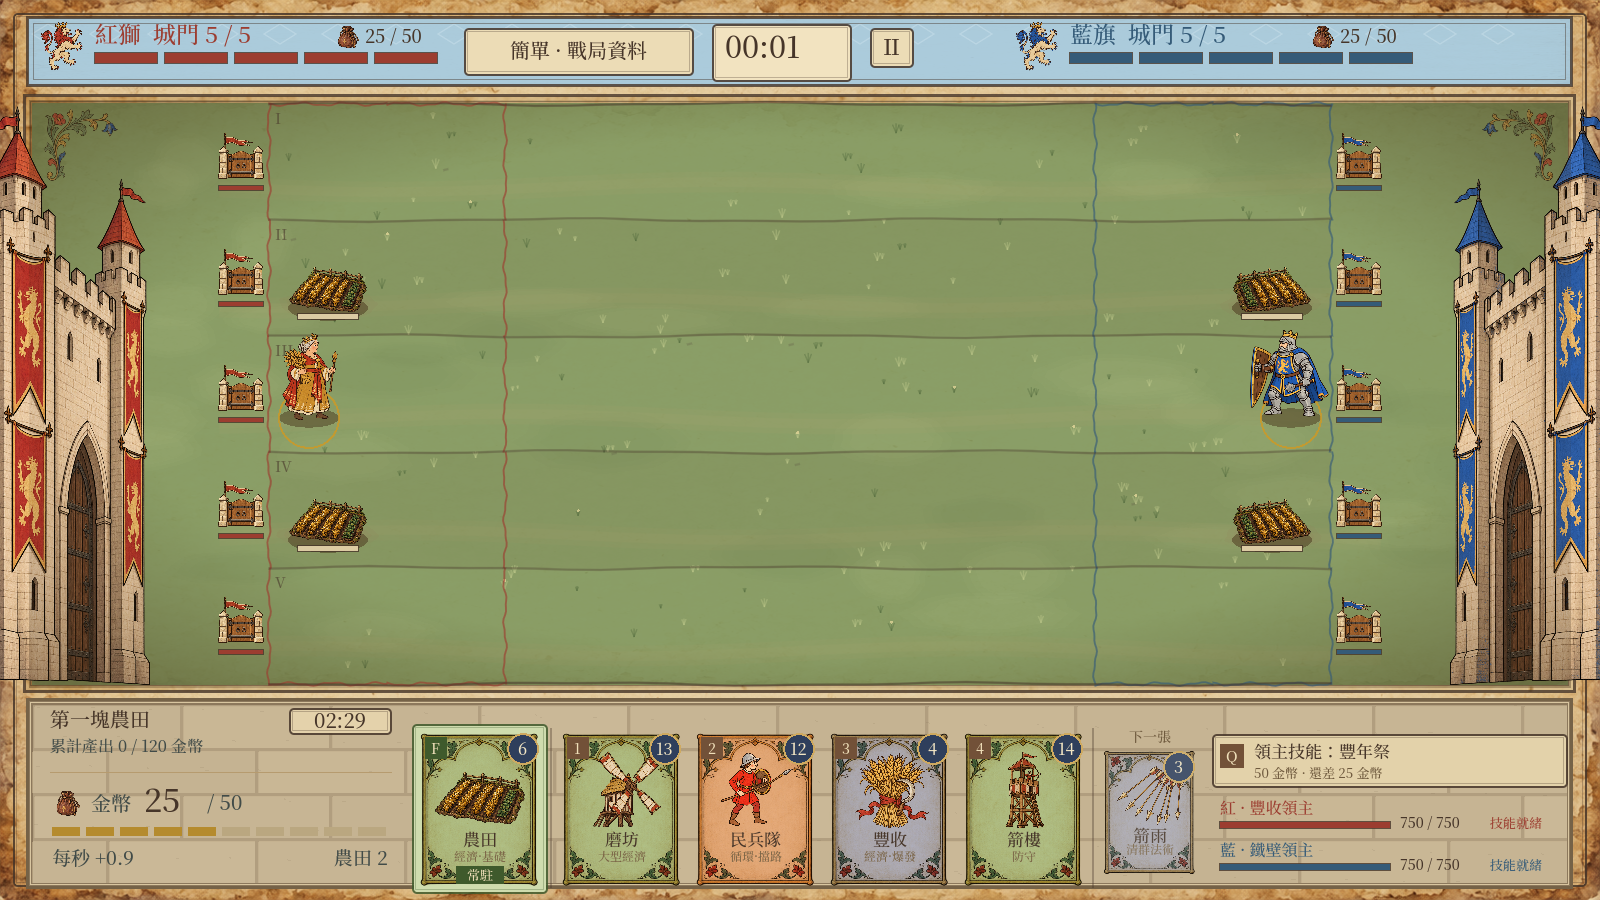
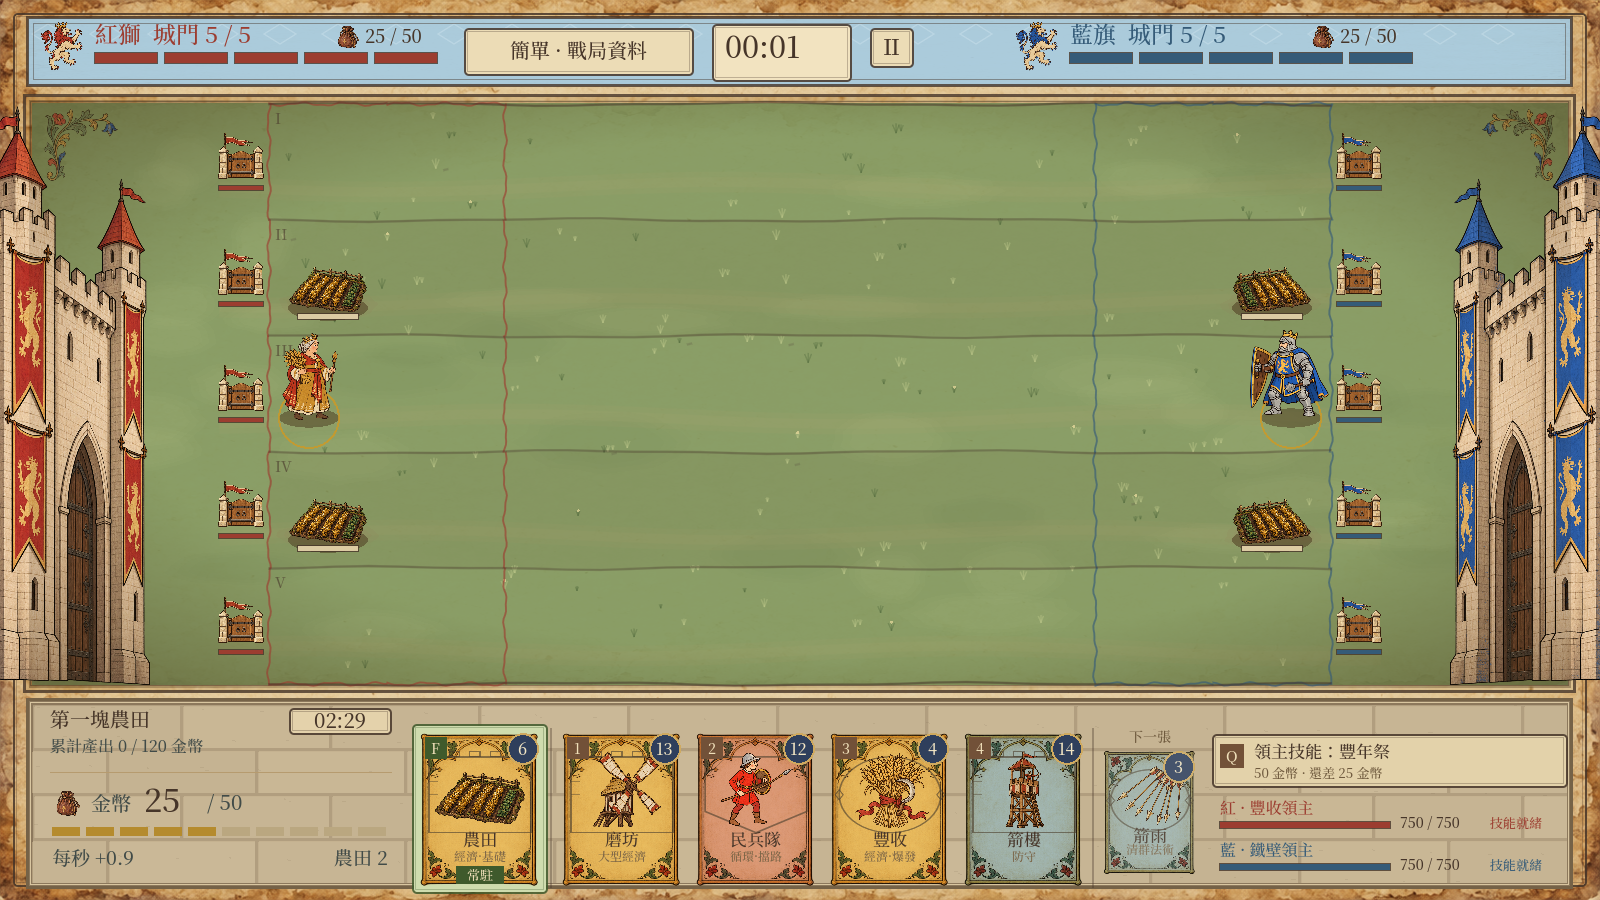
Keep hand slots fixed and distinguish card roles from card types

Changed region(s): [[0.5, 0.8089, 0.6875, 0.9956], [0.25, 0.8089, 0.4375, 0.9956]]

diff --git a/docs/卡牌辨識與補牌.md b/docs/卡牌辨識與補牌.md
@@ -1,0 +1,11 @@
+# 卡牌辨識與補牌
+
+- 打出哪一格，只補該格；其餘三張卡牌與冷卻保持原位。
+- 下一張仍取候補佇列首張，打出的牌排到佇列末尾；新牌在原格開始自身冷卻。常駐 F 卡不參與循環。
+- 定位色：經濟金色、近戰赭紅、遠程／遠距傷害藍色、支援綠色、控制紫色。混合軍團依主要定位分類。
+- 經濟包括農田、墓碑、農民、磨坊、豐收，不依單位或法術類型改色。
+- 類型框：軍隊盾形與斜紋；建築方形城垛與磚紋；法術橢圓與菱形符印。名稱與角色文字保留，不只靠顏色辨識。
+- 固定槽位測試覆蓋雙方四個槽位、其他牌冷卻不動、候補順序，以及所有卡牌皆有且只有一種定位。
+- 本次規則會改變 AI 出牌順序；黃金對局在 HEAD 加本次變更的隔離副本重錄，不混入共用目錄其他未提交的數值與機制改動。
+
+驗收：固定槽位測試通過；共用工作目錄快速測試 248 項通過；隔離提交版本完整 smoke_test 915 項通過。已檢視全 30 張卡牌及戰場截圖。
